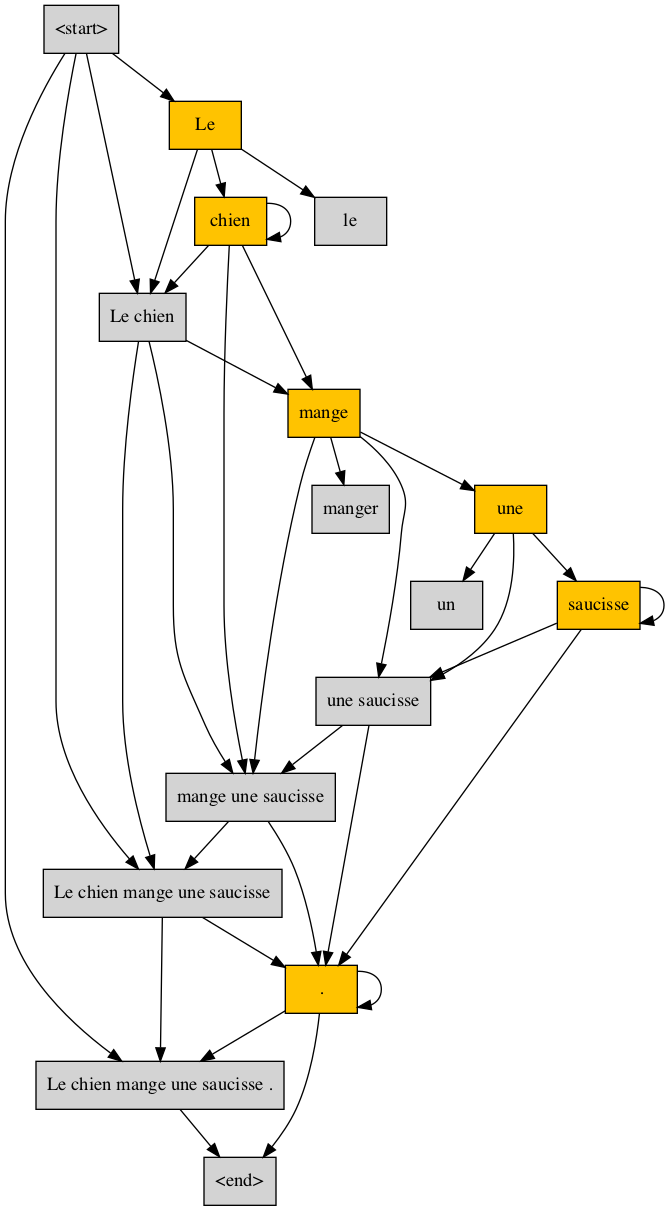
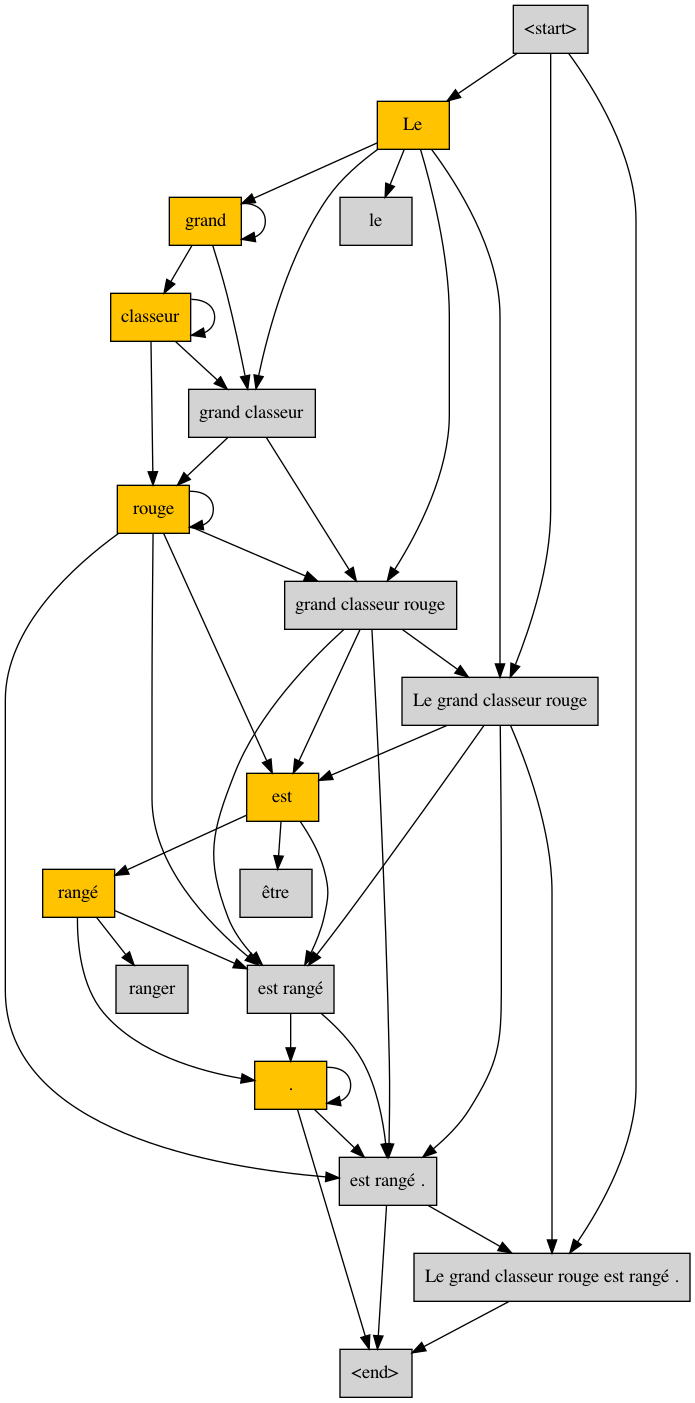
final commit

diff --git a/stageQUIN.py b/stageQUIN.py
@@ -214,9 +214,6 @@ def afficherGraphe(phrase):
             if arc.getTypeConnexion() == 0 and arc.getDebut() != 0:
                 n = graph.get_node('' + p[0][arc.getDebut()].getValue().getMot())
                 n.attr['fillcolor'] = "#FFC300"
-            # elif arc.getTypeConnexion() == 3:
-            # n = graph.get_node('' + p[0][arc.getArrive()].getValue().getMot())
-            # n.attr['fillcolor'] = "#FF5733"
 
         graph.layout('dot')
 
@@ -228,36 +225,67 @@ def afficherGraphe(phrase):
         indice += 1
 
 
-def calculCheminPlusCourt(arcs, connexion, debut, arrive):
-    if debut == arrive:
-        return []
-    elif connexion[debut]:
-        for voisin in connexion[debut]:
-            calculCheminPlusCourt(arcs, connexion, arcs[voisin].getArrive(), arrive)
-
-    else:
-        return [-1]
-
-
-def getInfos(id_noeud, listeNoeud, listArcs, listArcEntrant):
-    print(listeNoeud[id_noeud])
-    if listeNoeud[id_noeud].getValue().getType() == "NOUN":
-        return [listeNoeud[id_noeud].getValue().getMot()]
-    elif listeNoeud[id_noeud].getValue().getType() == "GN":
+def getInfoBETA(id_noeud, listeNoeud, listArcs, listArcEntrant, regles):
+    while True:
+        parents = []
         for voisin in listArcEntrant[id_noeud]:
-            return [getInfos(listArcs[voisin].getDebut(), listeNoeud, listArcs, listArcEntrant)]
-    elif listeNoeud[id_noeud].getValue().getType() == "GN+GV":
+            if listArcs[voisin].getTypeConnexion() == 1:
+                parents.append(listArcs[voisin].getDebut())
+
+        print("Les voisins de " + str(id_noeud) + " sont : " + str(listArcEntrant[id_noeud]))
+        if len(parents) == 2:
+            p1 = parents[0]
+            p2 = parents[1]
+
+            print("Pour le type : " + listeNoeud[id_noeud].getValue().getType() + ", on a :")
+            print(listeNoeud[p1].getValue().getType() + " + " + listeNoeud[p2].getValue().getType())
+            n = input("\nChoissiez : ")
+
+            if int(n) == 1:
+                return getInfoBETA(p1, listeNoeud, listArcs, listArcEntrant, regles)
+            else:
+                return getInfoBETA(p2, listeNoeud, listArcs, listArcEntrant, regles)
+
+        else:
+            print("Nous sommes arrivés à " + listeNoeud[id_noeud].getValue().getMot())
+            return
+
+
+def getInfo(id_noeud, listeNoeud, listArcs, listArcEntrant, regles):
+    while True:
+        parents = []
         for voisin in listArcEntrant[id_noeud]:
-            if listeNoeud[listArcs[voisin].getDebut()].getValue().getType() == "GN":
-                return [getInfos(listArcs[voisin].getDebut(), listeNoeud, listArcs, listArcEntrant)]
-    elif listeNoeud[id_noeud].getValue().getType() == "PHRASE":
-        print("TROUVÉ")
-        for voisin in listArcEntrant[id_noeud]:
-            return [getInfos(listArcs[voisin].getDebut(), listeNoeud, listArcs, listArcEntrant)]
+            if listArcs[voisin].getTypeConnexion() == 1:
+                parents.append(listArcs[voisin].getDebut())
+
+        if len(parents) == 2:
+
+            for p in parents:
+                if listeNoeud[p].getValue().getType() == "GN":
+                    return getInfo(p, listeNoeud, listArcs, listArcEntrant, regles)
+                if listeNoeud[p].getValue().getType() == "GN+GV":
+                    return getInfo(p, listeNoeud, listArcs, listArcEntrant, regles)
+                if listeNoeud[p].getValue().getType() == "GN+GV+CDN":
+                    return getInfo(p, listeNoeud, listArcs, listArcEntrant, regles)
+                if listeNoeud[p].getValue().getType() == "PRON":
+                    print("La phrase parle d'un : " + listeNoeud[p].getValue().getMot())
+                    return
+                if listeNoeud[p].getValue().getType() == "NOUN":
+                    print("La phrase parle d'un : " + listeNoeud[p].getValue().getMot())
+                    return
+
+            print("La phrase parle d'un : " + listeNoeud[id_noeud].getValue().getMot())
+
+            return
+
+
+        else:
+            print("ERROR")
+            return
 
 
 def main():
-    phrase = "Le chien mange une saucisse."
+    phraseInit = "Le grand classeur rouge est rangé."
 
     # Le chien mange une saucisse.
     # Le chat noir boit calmement du lait frais de chêvre que sa jolie maîtresse lui a acheté au supermarché du village d'à coté.
@@ -266,7 +294,7 @@ def main():
     # Le grand classeur rouge est rangé.
 
     nlp = stanza.Pipeline(lang='fr', processors='tokenize,mwt,pos,lemma')
-    doc = nlp(phrase)
+    doc = nlp(phraseInit)
 
     # phrase = [[Noeud[] , Arc[], ArcEntrant[], ArcSortant[]], Noeud[] , Arc[], ArcEntrant[], ArcSortant[]], ...]
 
@@ -277,10 +305,12 @@ def main():
         ('VERB', 'GN', 'GV'),  # mange une pomme
         ('DET', 'GN', 'GN'),  # le gros chat
         ('VERB', 'ADV', 'GV'),  # boit calmement
+        ('AUX', 'ADV', 'GV'),  # est actuellement
         ('DET', 'GN+PRON+GV', 'GN+PRON+GV'),  # sa jolie maîtresse lui a acheté
         ('ADJ', 'NOUN', 'GN'),  # gros chat
         ('ADJ', 'GN', 'GN'),  # longue voiture rouge
         ('GN', 'ADJ', 'GN'),  # longue voiture rouge
+        ('GN', 'CDN', 'GN'),  # le chat de la craimière
         # ('VERB', 'ADJ', 'GV'),
         ('AUX', 'ADJ', 'GV'),  # suis beau
         ('AUX', 'GN', 'GV'),  # suis un garçon
@@ -289,9 +319,10 @@ def main():
         ('GN', 'GV', 'GN+GV'),  # le chat boit
         ('GN+PRON', 'VERB', 'GN+PRON+GV'),  # sa jolie maîtresse lui a acheté
         ('GN+PRON', 'GV+PUNCT', 'GN+PRON+GV'),  # sa jolie maîtresse lui a acheté .
-        ('GN+PRON+GV', 'CDN', 'GN+PRON+GV'),  #
-        ('GN+GV', 'CDN', 'GN+GV'),  # le chat boit du lait de chêvre
+        # ('GN+PRON+GV', 'CDN', 'GN+PRON+GV'),  #
+        ('GN+GV', 'CDN', 'GN+GV+CDN'),  # le chat boit du lait de chêvre
         ('ADP', 'CDN', 'CDN'),  # d'à coté
+        ('CDN', 'ADP', 'CDN'),  # en train de
         ('GN+GV', 'PUNCT', 'PHRASE'),  # le chat boit .
         ('ADP', 'NOUN', 'CDN'),  # de chêvre (Complément Du Nom)
         ('ADP', 'GN', 'CDN'),  # de chêvre blanche
@@ -301,7 +332,9 @@ def main():
         ('GN', 'PRON', 'GN+PRON'),  # sa jolie maîtresse lui
         ('PRON', 'GN+PRON+GV', 'SUBRELA'),  # que sa maîtresse lui a acheté
         ('SCONJ', 'GN+PRON+GV', 'SUBRELA'),  # que sa maîtresse lui a acheté ('que' peut varier de type..)
-        ('GN+GV', 'SUBRELA', 'GN+GV'),  # le chat boit du lait que sa maîtresse lui a acheté
+        ('GN+GV+CDN', 'SUBRELA', 'GN+GV'),  # le chat boit du lait que sa maîtresse lui a acheté
+        ('GN+GV+CDN', 'GV', 'GN+GV'),  # l'ordinateur est actuellement en train de faire des calculs
+        ('GN+GV+CDN', 'PUNCT', 'GN+GV+CDN'),
         ('VERB', 'PUNCT', 'GV'),  # suis .
         # ('ADP', 'GV', 'COD'),
         # ('VERB', 'COD', 'GV')
@@ -316,15 +349,25 @@ def main():
 
     constructionGraphe(phrase, regles)
 
-    print(getInfos(len(phrase[0][0]) - 1, phrase[0][0], phrase[0][1], phrase[0][3]))
+    print()
+
+    for p in phrase[0][0]:
+        print(str(p.getValue().getMot()) + " (" + str(p.getValue().getType()) + ")")
+
+    print()
+
+    # print(phrase[0][0][len(phrase[0][0]) - 1])
+
+    print("Dans la phrase :\n'" + phraseInit + "'\n")
+    getInfo(len(phrase[0][0]) - 1, phrase[0][0], phrase[0][1], phrase[0][3], regles)
 
     ajoutLemme(phrase, nlp)
 
     print()
 
     for i in phrase:
-        print("Arcs Sortants :", i[2])
-        print("Arcs Entrants :", i[3])
+        # print("Arcs Sortants :", i[2])
+        # print("Arcs Entrants :", i[3])
         print()
 
     afficherGraphe(phrase)

diff --git a/test.py b/test.py
@@ -1,7 +1,43 @@
-mot = input()
+from bertopic import BERTopic
+from sklearn.datasets import fetch_20newsgroups
 
-resul = ""
-for l in mot:
-    resul = str(l) + resul
+print("LANCEMENT DU PROGRAMME\n")
 
-print(resul)
+
+def algo1():
+    text = ["Earth's highest mountain above sea level, located in the Mahalangur Himal sub-range of the Himalayas",
+            "point with highest elevation in a region, or on the path of a race or route",
+            "third planet from the Sun in the Solar System"]
+
+    topic_model = BERTopic(language="english")
+
+    topics, probs = topic_model.fit_transform()
+
+
+def algo2():
+    docs = fetch_20newsgroups(subset='train', remove=('headers', 'footers', 'quotes'))['data']
+    """
+    docs = [
+        "third planet from the Sun in the Solar System",
+        "The Moon is Earth's only natural satellite.",
+        "The most widely accepted origin explanation posits that the Moon formed 4.51 billion years ago.",
+        "The near side of the Moon is marked by dark volcanic maria.",
+        "The only human lunar missions to date have been those of the United States' Apollo program.",
+        "The Moon's orbit around Earth has a sidereal period of 27.3 days.",
+        "Orbiting Earth at an average distance of 384,400 km.",
+        "third planet from the Sun in the Solar System",
+        "The Moon is Earth's only natural satellite.",
+        "The most widely accepted origin explanation posits that the Moon formed 4.51 billion years ago.",
+        "The near side of the Moon is marked by dark volcanic maria.",
+        "The only human lunar missions to date have been those of the United States' Apollo program.",
+        "The Moon's orbit around Earth has a sidereal period of 27.3 days.",
+        "Orbiting Earth at an average distance of 384,400 km."]
+    """
+    print("doc : " + str(docs))
+    topic_model = BERTopic(embedding_model="xlm-r-bert-base-nli-stsb-mean-tokens").fit(docs)
+    result = topic_model.transform(['the cat drinks milk.'])
+    print()
+    print(result.get_info())
+
+
+algo2()
